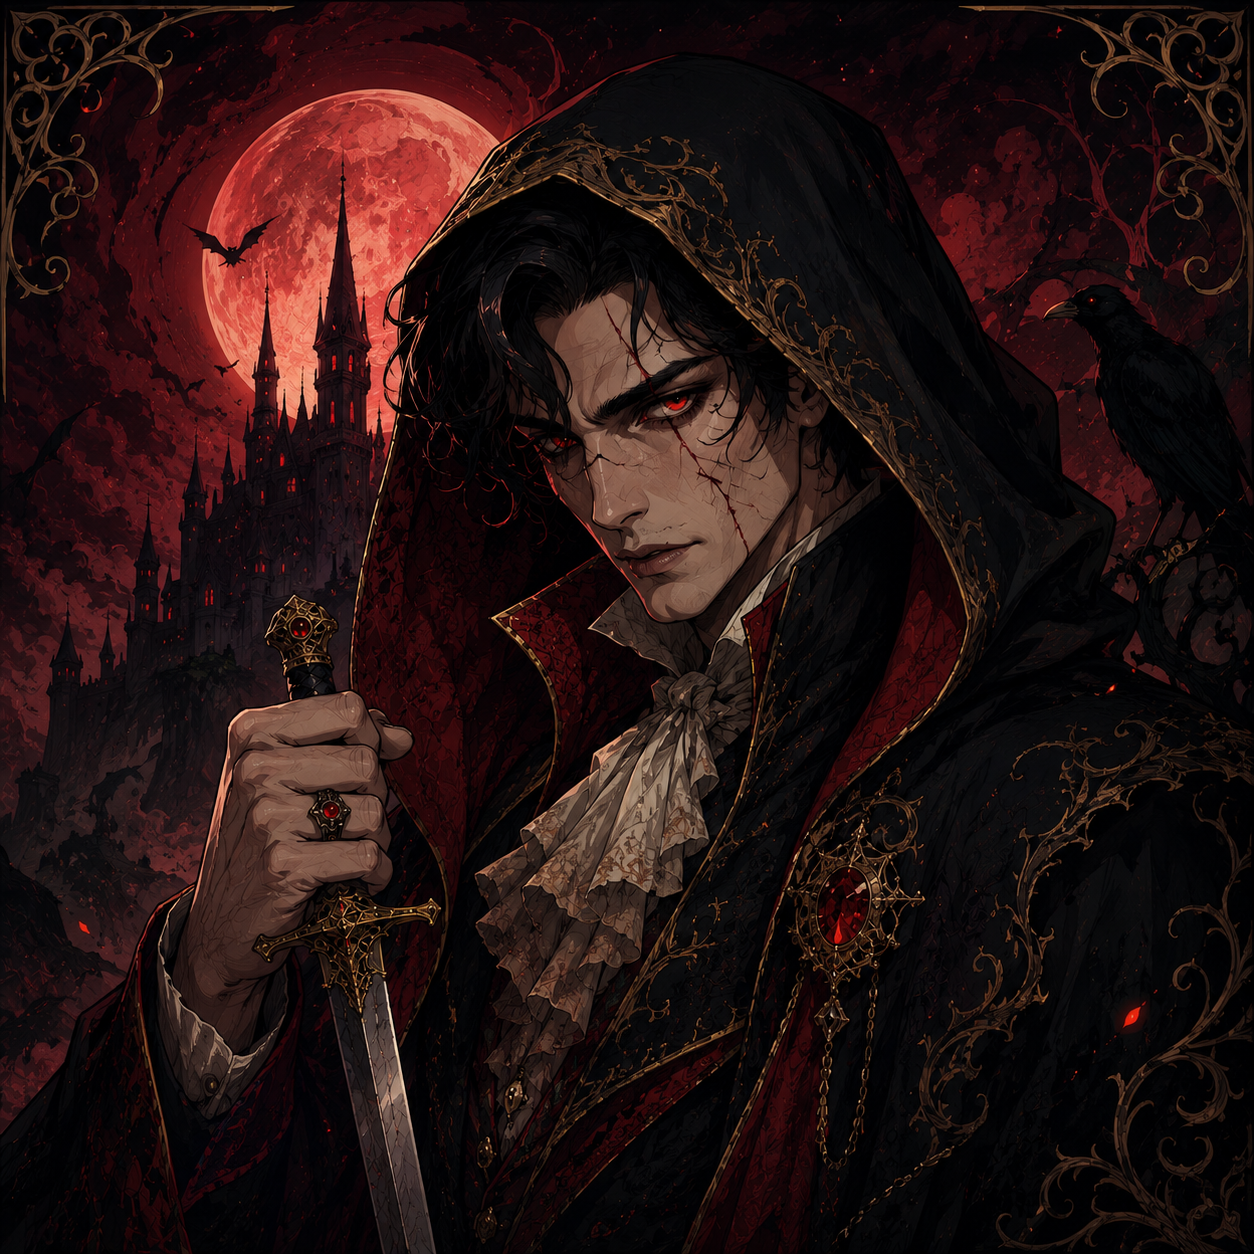
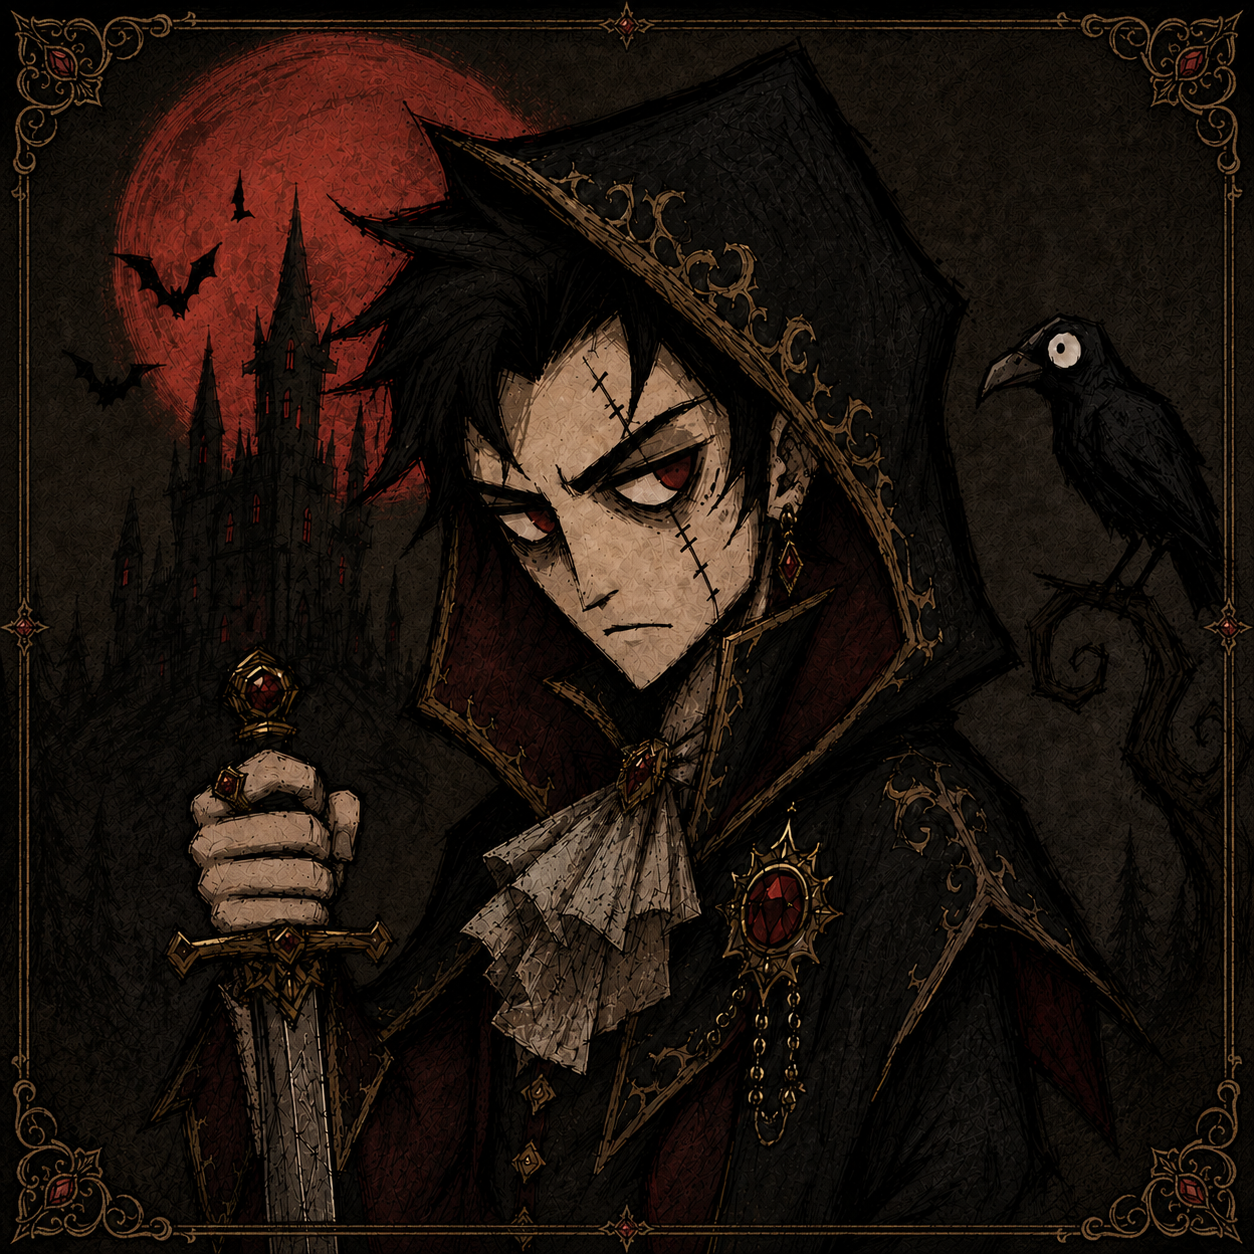
updated style of portraits

diff --git a/client/src/components/CharacterPanel.jsx b/client/src/components/CharacterPanel.jsx
@@ -13,17 +13,6 @@ const COLOR = {
 };
 
 const CLASS_DATA = {
-  pinkerton: {
-    name: 'Eugene',
-    title: 'Pinkerton',
-    portrait: '/portraits/02_pinkerton.png',
-    initials: 'EG',
-    color: '#9dfff2',
-    weapon: 'Pistole',
-    passives: [
-      'WIP',
-    ],
-  },
   reaper: {
     name: 'Luther',
     title: 'Reaper',
@@ -31,6 +20,17 @@ const CLASS_DATA = {
     initials: 'LT',
     color: '#a10000',
     weapon: 'Dagger',
+    passives: [
+      'WIP',
+    ],
+  },
+  pinkerton: {
+    name: 'Eugene',
+    title: 'Pinkerton',
+    portrait: '/portraits/02_pinkerton.png',
+    initials: 'EG',
+    color: '#9dfff2',
+    weapon: 'Pistole',
     passives: [
       'WIP',
     ],
@@ -46,10 +46,10 @@ const CLASS_DATA = {
       'WIP',
     ],
   },
-  pyromaniac: {
+  obsessed: {
     name: 'Klaus',
-    title: 'Pyromaniac',
-    portrait: '/portraits/04_pyromaniac.png',
+    title: 'Obsessed',
+    portrait: '/portraits/04_obsessed.png',
     initials: 'KL',
     color: '#ff4800',
     weapon: 'Explosive pistol',
